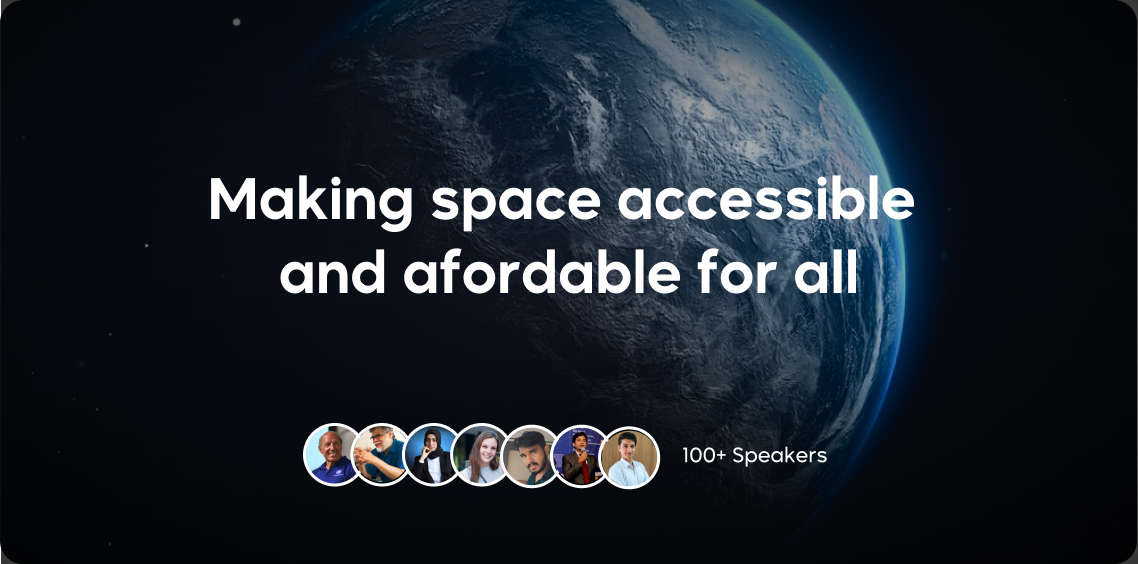
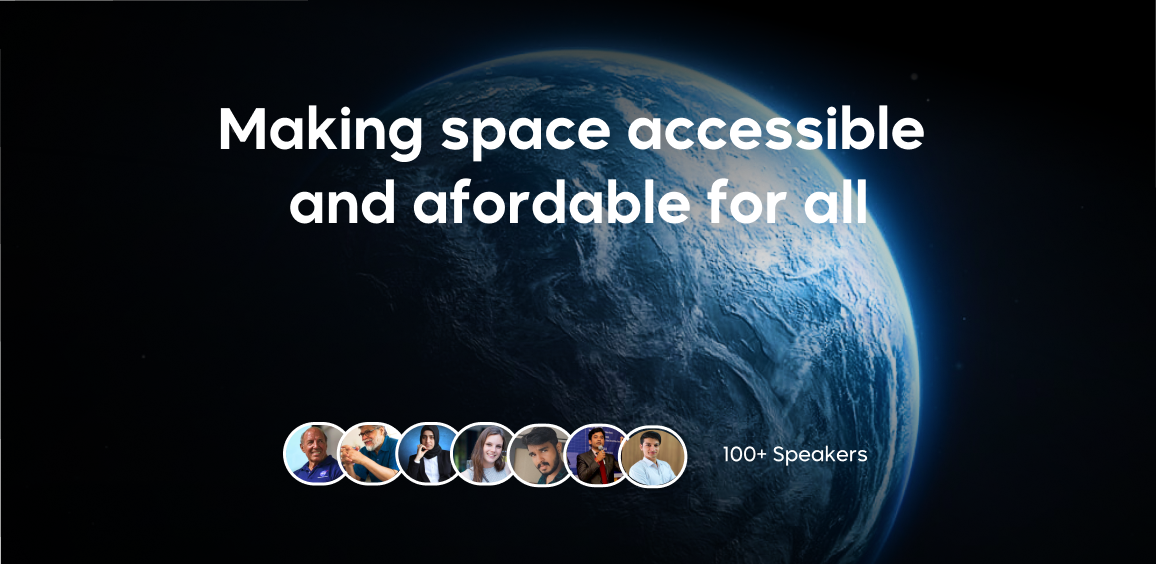
all update done

diff --git a/components/Hero.js b/components/Hero.js
@@ -4,6 +4,7 @@ import "swiper/css";
 import "swiper/css/navigation";
 import { Autoplay, EffectFade, Navigation, Pagination } from "swiper";
 import "swiper/css/effect-fade";
+import Link from "next/link";
 
 const swiperSlideData = [
   {
@@ -51,39 +52,44 @@ const Hero = () => {
             <div className="w-full  relative mx-auto sm:hidden">
               <img src="heroimage2.png" className="mx-auto hidden md:block" />
               <img src="heroimage2screen.png" className="mx-auto md:hidden" />
-              <button className="bg-gradient-to-r from-[#FF3D00] to-[#FFE600]  md:px-4 px-2 md:py-2 py-1 xl:w-[20rem] lg:w-[15rem] md:w-[10rem] w-[8rem] md:text-lg text-xs text-white font-sweet_sans_pro rounded-md text-center absolute -translate-x-1/2 -translate-y-1/2 left-1/2 top-[60%]">
-                Watch Now
-              </button>
+              <Link href="https://youtube.com/channel/UC0eZvfZEmgUldSAzAAv5ysA">
+                <button className="bg-gradient-to-r from-[#FF3D00] to-[#FFE600]  md:px-4 px-2 md:py-2 py-1 xl:w-[20rem] lg:w-[15rem] md:w-[10rem] w-[8rem] md:text-lg text-xs text-white font-sweet_sans_pro rounded-md text-center absolute -translate-x-1/2 -translate-y-1/2 left-1/2 top-[60%]">
+                  Watch Now
+                </button>
+              </Link>
+
               <img
                 src="/floatingIcon/floatingIcon1.png"
-                className="absolute md:top-8 top-0 md:left-24 left-12 floating md:w-16 w-8"
+                className="absolute w-8 top-8 left-4 floating"
               />
-              <img
+              {/* <img
                 src="Images/Webinars/english/person/person2.png"
                 className="absolute top-1/2 md:left-32 left-0 floating md:w-16 w-8"
-              />
+              /> */}
               <img
-                src="Images/Webinars/english/person/person9.png"
-                className="absolute md:bottom-0 top-1/4 md:left-24 floating md:w-16 w-8"
+                src="Images/Webinars/english/person/person11.png"
+                className="absolute w-8 top-8 right-1/3 floating"
               />
               <img
                 src="Images/Webinars/english/person/person7.png"
-                className="absolute md:top-8 top-0 md:right-24 right-12  floating md:w-16 w-8"
+                className="absolute w-8 top-1/4 right-2/3 floating"
               />
-              <img
+              {/* <img
                 src="/floatingIcon/floatingIcon2.png"
                 className="absolute top-1/2 md:right-32 right-0 floating md:w-16 w-8"
-              />
+              /> */}
               <img
-                src="Images/Webinars/english/person/person13.png"
-                className="absolute  bottom-0 top-1/4 md:right-24 left-1/2 floating md:w-16 w-8"
+                src="/floatingIcon/floatingIcon2.png"
+                className="absolute  w-8 top-16 right-4 floating"
               />
             </div>
             <div className="w-full relative mx-auto hidden sm:block">
-              <img src="heroimage2.png" className="mx-auto" />
-              <button className="bg-gradient-to-r from-[#FF3D00] to-[#FFE600]  md:px-4 px-2 md:py-2 py-1 xl:w-[20rem] lg:w-[15rem] md:w-[10rem] w-[8rem] md:text-lg text-xs text-white font-sweet_sans_pro rounded-md text-center absolute -translate-x-1/2 -translate-y-1/2 left-1/2 top-[70%]">
-                Watch Now
-              </button>
+              <img src="heroimage2.png" className="mx-auto " />
+              <Link href="https://youtube.com/channel/UC0eZvfZEmgUldSAzAAv5ysA">
+                <button className="bg-gradient-to-r from-[#FF3D00] to-[#FFE600]  md:px-4 px-2 md:py-2 py-1 xl:w-[20rem] lg:w-[15rem] md:w-[10rem] w-[8rem] md:text-lg text-xs text-white font-sweet_sans_pro rounded-md text-center absolute -translate-x-1/2 -translate-y-1/2 left-1/2 top-[70%]">
+                  Watch Now
+                </button>
+              </Link>
               <img
                 src="/floatingIcon/floatingIcon1.png"
                 className="absolute md:top-8 top-0 left-4 floating md:w-16 w-8"
@@ -113,42 +119,47 @@ const Hero = () => {
         </SwiperSlide>
         <SwiperSlide key={"2"} className="mySwiper">
           <div className="w-full">
-            <div className="w-full  relative mx-auto sm:hidden">
+            <div className="w-full relative mx-auto sm:hidden">
               <img src="heroimage1.png" className="mx-auto hidden md:block" />
               <img src="heroimage1screen.png" className="mx-auto md:hidden" />
-              <button className="bg-gradient-to-r from-[#2400FF] to-[#00D1FF]  md:px-4 px-2 md:py-2 py-1 xl:w-[20rem] lg:w-[15rem] w-[10rem] md:text-lg text-xs text-white font-sweet_sans_pro rounded-md text-center absolute -translate-x-1/2 -translate-y-1/2 left-1/2 top-[65%]">
-                Get Started for free
-              </button>
+              <Link href="https://forms.gle/tu41XvnDkXRK1Hgv7">
+                <button className="bg-gradient-to-r from-[#2400FF] to-[#00D1FF]  md:px-4 px-2 md:py-2 py-1 xl:w-[20rem] lg:w-[15rem] w-[10rem] md:text-lg text-xs text-white font-sweet_sans_pro rounded-md text-center absolute -translate-x-1/2 -translate-y-1/2 left-1/2 top-[65%]">
+                  Get Started for free
+                </button>
+              </Link>
               <img
                 src="/floatingIcon/floatingIcon1.png"
-                className="absolute md:top-8 top-0 md:left-24 left-12 floating md:w-16 w-8"
+                className="absolute w-8 top-8 left-4 floating"
               />
-              <img
+              {/* <img
                 src="Images/Webinars/english/person/person2.png"
                 className="absolute bottom-1/3 md:left-44 left-0 floating md:w-16 w-8"
-              />
+              /> */}
               <img
-                src="Images/Webinars/english/person/person9.png"
-                className="absolute md:bottom-0 top-1/4 md:left-24 floating md:w-16 w-8"
+                src="Images/Webinars/english/person/person11.png"
+                className="absolute w-8 top-8 right-1/3 floating"
               />
               <img
                 src="Images/Webinars/english/person/person7.png"
-                className="absolute md:top-8 top-0 md:right-24 right-12  floating md:w-16 w-8"
+                className="absolute w-8 top-1/4 right-2/3 floating"
               />
-              <img
+              {/* <img
                 src="/floatingIcon/floatingIcon2.png"
                 className="absolute bottom-1/3 md:right-44 right-0 floating md:w-16 w-8"
-              />
+              /> */}
               <img
-                src="Images/Webinars/english/person/person13.png"
-                className="absolute  bottom-0 top-1/4 md:right-24 left-1/2 floating md:w-16 w-8"
+                src="/floatingIcon/floatingIcon2.png"
+                className="absolute  w-8 top-16 right-4 floating"
               />
             </div>
             <div className="w-full relative mx-auto hidden sm:block">
               <img src="heroimage1.png" className="mx-auto" />
-              <button className="bg-gradient-to-r from-[#2400FF] to-[#00D1FF]  md:px-4 px-2 md:py-2 py-1 xl:w-[20rem] lg:w-[15rem] md:w-[10rem] w-[8rem] md:text-lg text-xs text-white font-sweet_sans_pro rounded-md text-center absolute -translate-x-1/2 -translate-y-1/2 left-1/2 top-[65%]">
-                Get Started for free
-              </button>
+              <Link href="https://forms.gle/tu41XvnDkXRK1Hgv7">
+                <button className="bg-gradient-to-r from-[#2400FF] to-[#00D1FF]  md:px-4 px-2 md:py-2 py-1 xl:w-[20rem] lg:w-[15rem] md:w-[10rem] w-[8rem] md:text-lg text-xs text-white font-sweet_sans_pro rounded-md text-center absolute -translate-x-1/2 -translate-y-1/2 left-1/2 top-[60%]">
+                  Get Started for free
+                </button>
+              </Link>
+
               <img
                 src="/floatingIcon/floatingIcon1.png"
                 className="absolute md:top-8 top-0 left-4 floating md:w-16 w-8"

diff --git a/components/WebinarsCard.js b/components/WebinarsCard.js
@@ -32,9 +32,9 @@ const WebinarsCard = ({ image, title, speakerImage, speaker }) => {
         </Link>
       </div>
 
-      <div className="md:hidden grid grid-cols-5 gap-4">
-        <img src={image} className="col-span-3 h-full object-cover" />
-        <section className="flex flex-col space-y-2 sm:space-y-4 col-span-2">
+      <div className="md:hidden grid grid-cols-7 gap-4">
+        <img src={image} className="col-span-4 h-full object-contain" />
+        <section className="flex flex-col space-y-2 sm:space-y-4 col-span-3">
           <h1 className="text-white font-sweet_sans_pro sm:text-xl text-sm font-medium">
             {title}
           </h1>

diff --git a/pages/index.js b/pages/index.js
@@ -71,8 +71,8 @@ export default function Home() {
       </Head>
       <SideNav path={route} />
       <Navbar path={route} />
-      <Hero />
       <div className="md:ml-16 md:px-12 px-4">
+        <Hero />
         {/* <Link href="https://rzp.io/l/DeepSkyImgProcessing">
           <img src="/scholarship.png" className="cursor-pointer mx-auto" />
         </Link> */}
